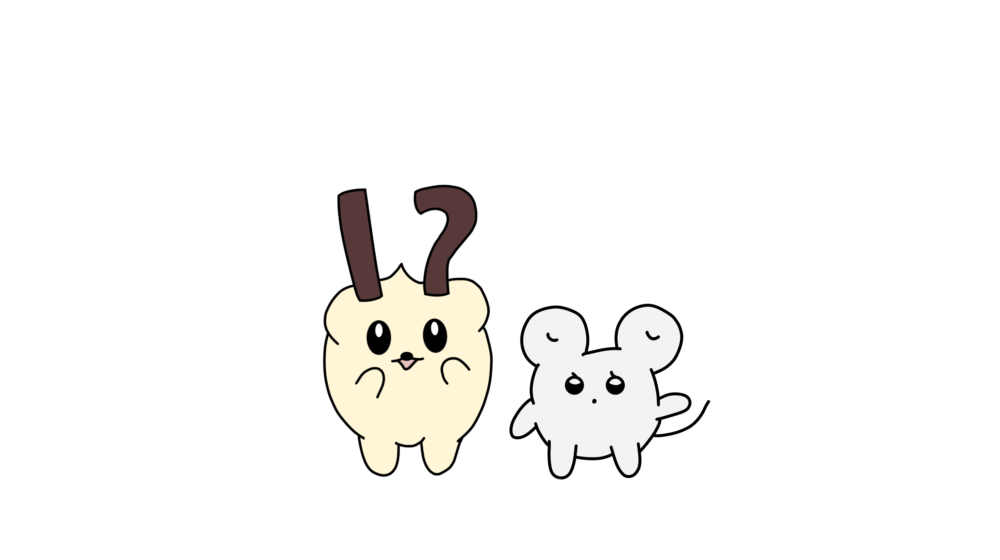
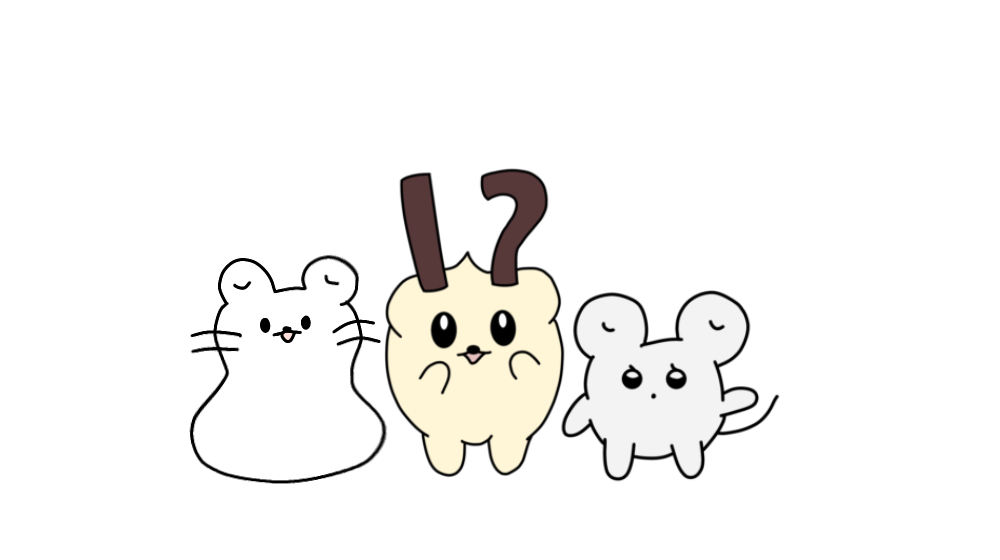
hero画像変更,manga

Changed region(s): [[0.186, 0.3036, 0.775, 0.8804], [0.682, 0.5161, 0.744, 0.5464]]

diff --git a/components/manga.js b/components/manga.js
@@ -1,0 +1,16 @@
+import styles from '../styles/manga.module.css'
+
+
+import { FontAwesomeIcon } from '@fortawesome/react-fontawesome'
+import { faBook} from '@fortawesome/free-solid-svg-icons'
+export default function Manga(){
+  return (
+    <div className={`${styles.color} ${styles.padding_6}`}>
+      <h2 className={`${styles.section_title}`}><FontAwesomeIcon icon={faBook}/> Manga</h2>
+      <blockquote class="twitter-tweet"><p lang="und" dir="ltr">🥱 <a href="https://t.co/aCB0Tsu3oU">pic.twitter.com/aCB0Tsu3oU</a></p>&mdash; phihash (@phihash) <a href="https://twitter.com/phihash/status/1599006235688595456?ref_src=twsrc%5Etfw">December 3, 2022</a></blockquote> <script async src="https://platform.twitter.com/widgets.js" charset="utf-8"></script>
+
+    </div>
+  )
+}
+
+

diff --git a/pages/index.js b/pages/index.js
@@ -5,6 +5,7 @@ import Character from "../components/character"
 import About from "../components/about"
 import Contact from "../components/contact"
 import Movie from "../components/movie"
+import Manga from "../components/manga"
 import Footer from "../components/footer"
 
 export default function Home(){
@@ -15,6 +16,8 @@ export default function Home(){
       <main>
       <Character></Character>
         <Work></Work>
+        <Manga></Manga>
+
         <Movie></Movie>
 
         <About></About>

diff --git a/styles/manga.module.css b/styles/manga.module.css
@@ -1,0 +1,19 @@
+
+.color{
+  background-color:  #fdf6e4;
+
+
+}
+
+.section_title{
+  font-family: 'Montserrat', sans-serif;
+  color:#10351a;
+  /* color:#f8fffa; */
+  text-align: center;
+
+}
+
+
+.padding_6{
+  padding: 5.2rem 8%;
+}
